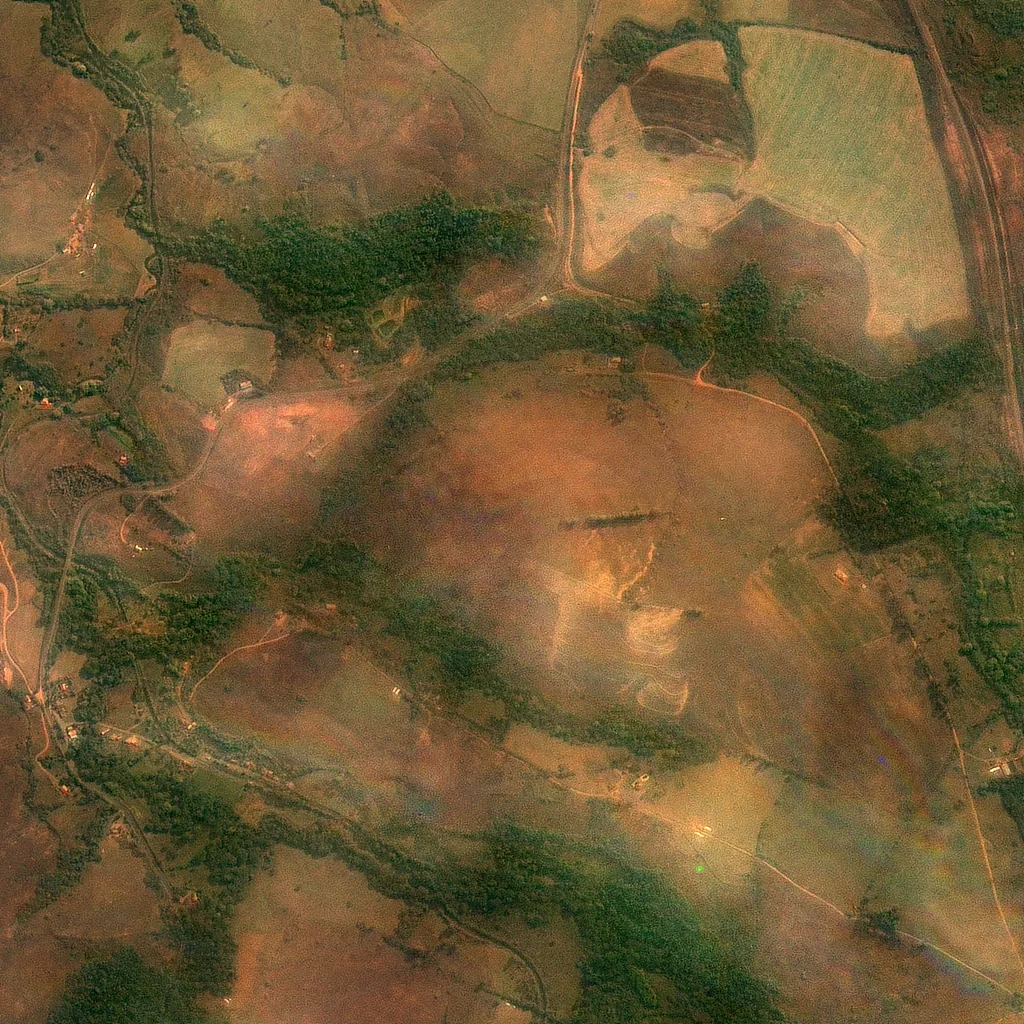
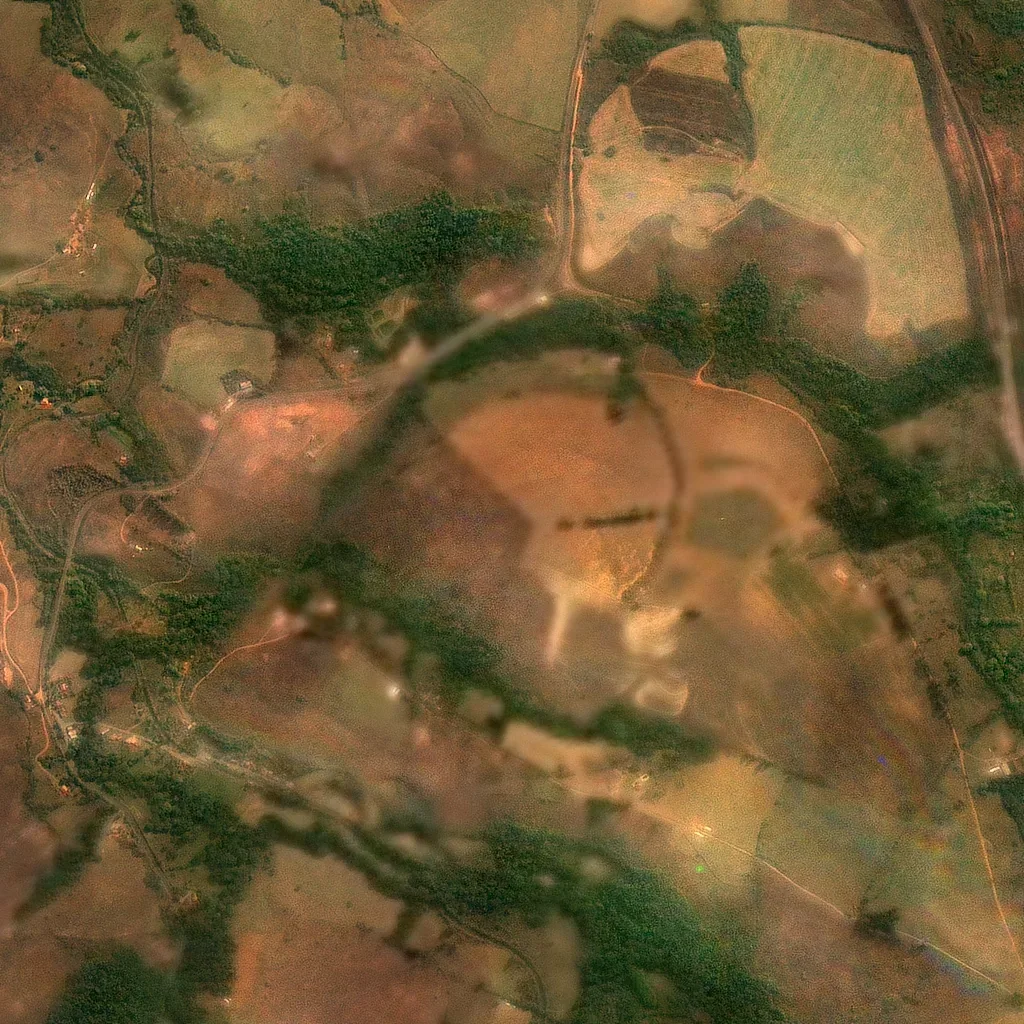
Imagem de 2 m conferida: névoa da cena trocada pelo 4 m em 20 blocos (só onde o 2 m perdeu contraste), 3 blocos da borda sul voltam ao 4 m; o mesmo passo no build_cbers2m.py

diff --git a/data/muni/grid.js b/data/muni/grid.js
@@ -14,4 +14,4 @@ export const IMAGERY_SETS = [
 ];
 export const OVERVIEW = 'data/muni/img/overview.jpg';
 // células com imagem de 2 m (geradas por tools/build_muni_tiles.py → img/town.json)
-export const TOWN_CELLS = new Set(["0_16", "0_17", "1_15", "1_16", "1_17", "2_5", "2_6", "2_7", "2_8", "2_9", "2_10", "2_11", "2_12", "2_14", "2_15", "2_16", "2_17", "3_5", "3_6", "3_7", "3_8", "3_9", "3_10", "3_11", "3_12", "3_13", "3_14", "3_15", "3_16", "3_17", "4_5", "4_6", "4_7", "4_8", "4_9", "4_10", "4_11", "4_12", "4_13", "4_14", "4_15", "4_16", "4_17", "5_5", "5_6", "5_7", "5_8", "5_9", "5_10", "5_11", "5_12", "5_13", "5_14", "5_15", "5_16", "5_17", "6_6", "6_7", "6_8", "6_9", "6_10", "6_11", "6_12", "6_13", "6_14", "6_15", "6_16", "6_17", "6_18", "6_19", "6_20", "6_21", "7_7", "7_8", "7_9", "7_10", "7_11", "7_12", "7_13", "7_14", "7_15", "7_16", "7_17", "7_18", "7_19", "7_20", "7_21", "8_4", "8_5", "8_6", "8_7", "8_8", "8_9", "8_10", "8_11", "8_12", "8_13", "8_14", "8_15", "8_16", "8_17", "8_18", "8_19", "8_20", "8_21", "9_2", "9_3", "9_4", "9_5", "9_6", "9_7", "9_8", "9_9", "9_10", "9_11", "9_12", "9_13", "9_14", "9_15", "9_16", "9_17", "9_18", "9_19", "9_20", "9_21", "10_1", "10_2", "10_3", "10_4", "10_5", "10_6", "10_7", "10_8", "10_9", "10_10", "10_11", "10_12", "10_13", "10_14", "10_15", "10_16", "10_17", "10_18", "10_19", "10_20", "10_21", "11_0", "11_1", "11_2", "11_3", "11_4", "11_5", "11_6", "11_7", "11_8", "11_9", "11_10", "11_11", "11_12", "11_13", "11_14", "11_15", "11_16", "11_17", "11_18", "11_19", "11_20", "11_21", "12_0", "12_1", "12_2", "12_3", "12_4", "12_5", "12_6", "12_7", "12_8", "12_9", "12_10", "12_11", "12_12", "12_13", "12_14", "12_15", "12_16", "12_17", "12_18", "12_19", "12_20", "12_21", "13_2", "13_3", "13_4", "13_5", "13_6", "13_7", "13_8", "13_9", "13_10", "13_11", "13_12", "13_13", "13_14", "13_15", "13_16", "13_17", "13_18", "13_19", "13_20", "13_21", "14_2", "14_3", "14_4", "14_5", "14_6", "14_7", "14_8", "14_9", "14_10", "14_11", "14_12", "14_13", "14_14", "14_15", "14_16", "14_17", "14_18", "15_3", "15_4", "15_5", "15_6", "15_7", "15_8", "15_9", "15_10", "15_11", "15_12", "15_13", "15_14", "16_3", "16_4", "16_5", "16_6", "16_7", "16_8", "16_9", "16_10", "16_11", "16_12", "16_13", "17_9", "17_10", "17_11", "17_12", "17_13"]);
+export const TOWN_CELLS = new Set(["0_16","0_17","1_15","1_16","1_17","2_5","2_6","2_7","2_8","2_9","2_10","2_11","2_12","2_14","2_15","2_16","2_17","3_5","3_6","3_7","3_8","3_9","3_10","3_11","3_12","3_13","3_14","3_15","3_16","3_17","4_5","4_6","4_7","4_8","4_9","4_10","4_11","4_12","4_13","4_14","4_15","4_16","4_17","5_5","5_6","5_7","5_8","5_9","5_10","5_11","5_12","5_13","5_14","5_15","5_16","5_17","6_6","6_7","6_8","6_9","6_10","6_11","6_12","6_13","6_14","6_15","6_16","6_17","6_18","6_19","6_20","6_21","7_7","7_8","7_9","7_10","7_11","7_12","7_13","7_14","7_15","7_16","7_17","7_18","7_19","7_20","7_21","8_4","8_5","8_6","8_7","8_8","8_9","8_10","8_11","8_12","8_13","8_14","8_15","8_16","8_17","8_18","8_19","8_20","8_21","9_2","9_3","9_4","9_5","9_6","9_7","9_8","9_9","9_10","9_11","9_12","9_13","9_14","9_15","9_16","9_17","9_18","9_19","9_20","9_21","10_1","10_2","10_3","10_4","10_5","10_6","10_7","10_8","10_9","10_10","10_11","10_12","10_13","10_14","10_15","10_16","10_17","10_18","10_19","10_20","10_21","11_0","11_1","11_2","11_3","11_4","11_5","11_6","11_7","11_8","11_9","11_10","11_11","11_12","11_13","11_14","11_15","11_16","11_17","11_18","11_19","11_20","11_21","12_0","12_1","12_2","12_3","12_4","12_5","12_6","12_7","12_8","12_9","12_10","12_11","12_12","12_13","12_14","12_15","12_16","12_17","12_18","12_19","12_20","12_21","13_2","13_3","13_4","13_5","13_6","13_7","13_8","13_9","13_10","13_11","13_12","13_13","13_14","13_15","13_16","13_17","13_18","13_19","13_20","13_21","14_2","14_3","14_4","14_5","14_6","14_7","14_8","14_9","14_10","14_11","14_12","14_13","14_14","14_15","14_16","14_17","14_18","15_3","15_4","15_5","15_6","15_7","15_8","15_9","15_10","15_11","15_12","15_13","15_14","16_5","16_6","16_7","16_8","16_9","16_10","16_11","16_12","16_13","17_10","17_11","17_12","17_13"]);

diff --git a/tools/build_cbers2m.py b/tools/build_cbers2m.py
@@ -298,12 +298,15 @@ def run_stack(a, sk):
         if a.dehaze: med = dehaze(med, a.dehaze)
         if a.denoise: med, _ = denoise(med, a.denoise)
         if a.deconv: med = deconvolve(med, a.deconv * sk, a.deconv_k)
-        out = match_to_base(med, base_tile(r, c), valid, sk)
+        base = base_tile(r, c)
+        out = match_to_base(med, base, valid, sk)
         info = ''
         if a.deshadow:   # depois do casamento de cor: o bloco de 4 m também tem as sombras da hora da foto
             out, info = deshadow(out, LON, LAT, a.deshadow)
         if a.clarity: out = out + a.clarity * (out - np.stack([gaussian_filter(out[..., j], 6 * sk) for j in range(3)], -1))
         if a.unsharp: out = out + a.unsharp * (out - np.stack([gaussian_filter(out[..., j], 0.9 * sk) for j in range(3)], -1))
+        out, hz = haze_fallback(out, base)
+        info += f', névoa trocada pelo 4 m: {hz * 100:.0f}%'
         im8 = Image.fromarray(np.clip(out, 0, 255).astype(np.uint8))
         name = f'c_{r}_{c}{a.tag}.jpg'
         if a.format in ('jpg', 'both'):
@@ -320,6 +323,25 @@ def sample_window(ds, band, X, Y, order):
     src = ds.read(band, window=win, boundless=True, fill_value=0).astype(np.float32)
     wt = ds.window_transform(win)
     return map_coordinates(src, [(Y - wt.f) / wt.e - 0.5, (X - wt.c) / wt.a - 0.5], order=order, mode='nearest', prefilter=order > 1)
+
+
+def haze_fallback(out, base):
+    """onde o 2 m perdeu contraste local para o 4 m (névoa ou nuvem fina na cena), mistura suave para o 4 m.
+    Mesma conta da correção feita no navegador em 04/10/2026 (20 blocos): contraste em janelas de ~66 m, com o 2 m
+    levado à escala do 4 m; troca começa abaixo de 62% do contraste do 4 m e é total abaixo de 42% (os blocos bons
+    ficam acima de ~60% em 95% das janelas). Devolve (imagem, fração trocada)."""
+    from scipy.ndimage import uniform_filter
+    lum = lambda im: 0.299 * im[..., 0] + 0.587 * im[..., 1] + 0.114 * im[..., 2]
+    A, B = uniform_filter(lum(out), 3), lum(base)
+    R = 2 * round(out.shape[0] / 64) + 1
+
+    def sd(x):
+        m = uniform_filter(x, R)
+        return np.sqrt(np.maximum(uniform_filter(x * x, R) - m * m, 0))
+    t = np.clip((0.62 - sd(A) / (sd(B) + 2)) / 0.2, 0, 1)
+    k = 2 * round(out.shape[0] / 48) + 1
+    w = uniform_filter(uniform_filter(t * t * (3 - 2 * t), k), k)[..., None]
+    return out * (1 - w) + base * w, float(w.mean())
 
 
 def match_to_base(img, base, valid, sk):

diff --git a/CLAUDE.md b/CLAUDE.md
@@ -76,7 +76,7 @@ tools/dev/shot.js     captura de tela headless (Playwright + SwiftShader) para c
 | Arquivo | O que é |
 |---|---|
 | dem/anadem.png | ANADEM 30 m em PNG Terrarium (R·256 + G + B/256 − 32768), 1671×1522 |
-| img/town/c_{r}_{c}.webp | 2 m (CBERS-4A 23/07/2026) em 255 células do município (5 do sul ficam fora da cena), ~95 MB, gerados pelo robô "Imagem de 2 m — município"; lista em TOWN_CELLS (grid.js) |
+| img/town/c_{r}_{c}.webp | 2 m (CBERS-4A 23/07/2026) em 252 células do município, ~93 MB, gerados pelo robô "Imagem de 2 m — município"; lista em TOWN_CELLS (grid.js). Conferidos em 04/10/2026: 16_3, 17_9 e 16_4 saíram (borda da cena, era o 4 m ampliado) e 20 blocos tiveram a névoa da cena trocada pelo 4 m no navegador (`haze_fallback`, também no build_cbers2m.py — não testado lá) |
 | img/overview.jpg, img/cbers/t_{ty}_{tx}.jpg | CBERS-4A fundido com cor Sentinel-2: visão geral e 4 m (blocos de 2×2 células) |
 | layers/vigor_{aguas,seca}_2026.webp | NDVI da Sentinel-2 (águas jan–abr p70, seca jul–set mediana), cinza 8 bits na grade do car_id (3072×2993): 0 = sem dado, NDVI = (v − 1)/254 − 0,1 |
 | layers/vigor.json | robô "Vigor da pastagem": anos 2019–2026, datas usadas, pasto do município (quartis, séries) e por propriedade [ha de pasto, % fraco, % forte, NDVI águas, NDVI seca, [águas ano a ano], [seca ano a ano]] (NDVI × 100; pasto = MapBiomas 2025 classe 15) |
